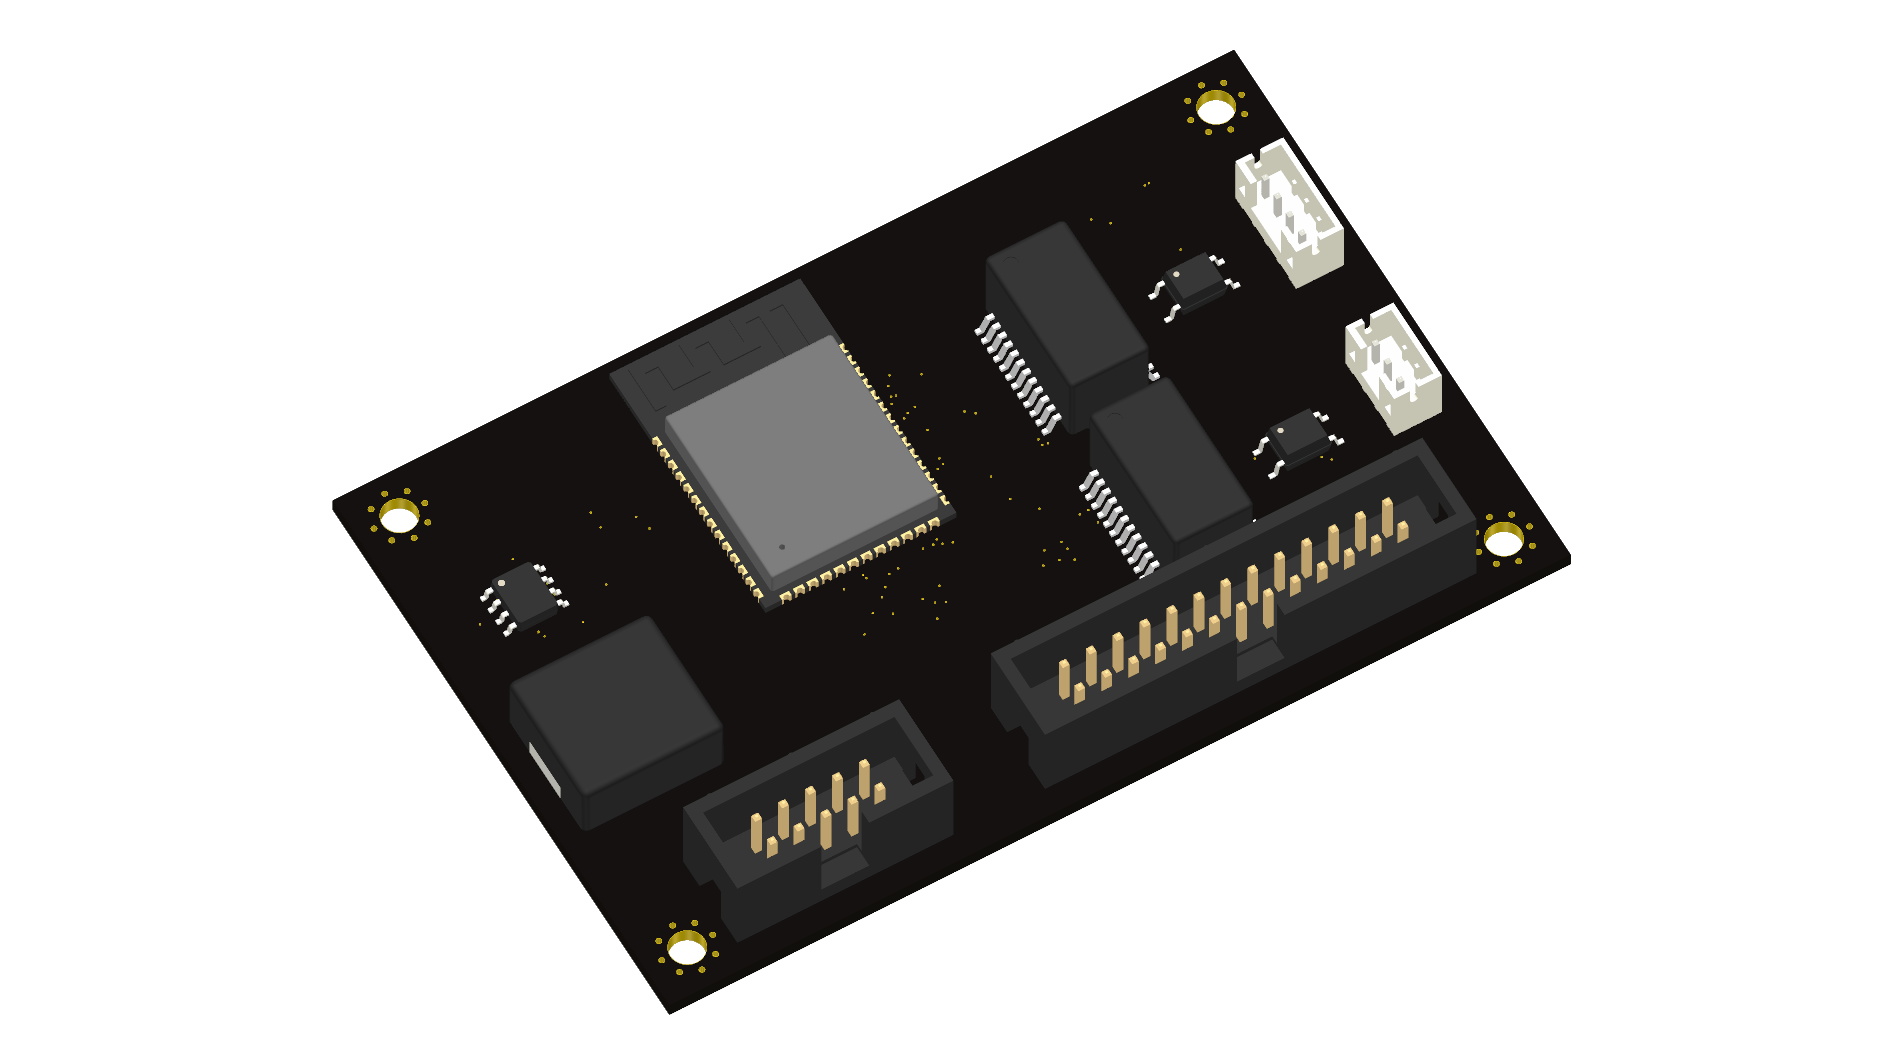
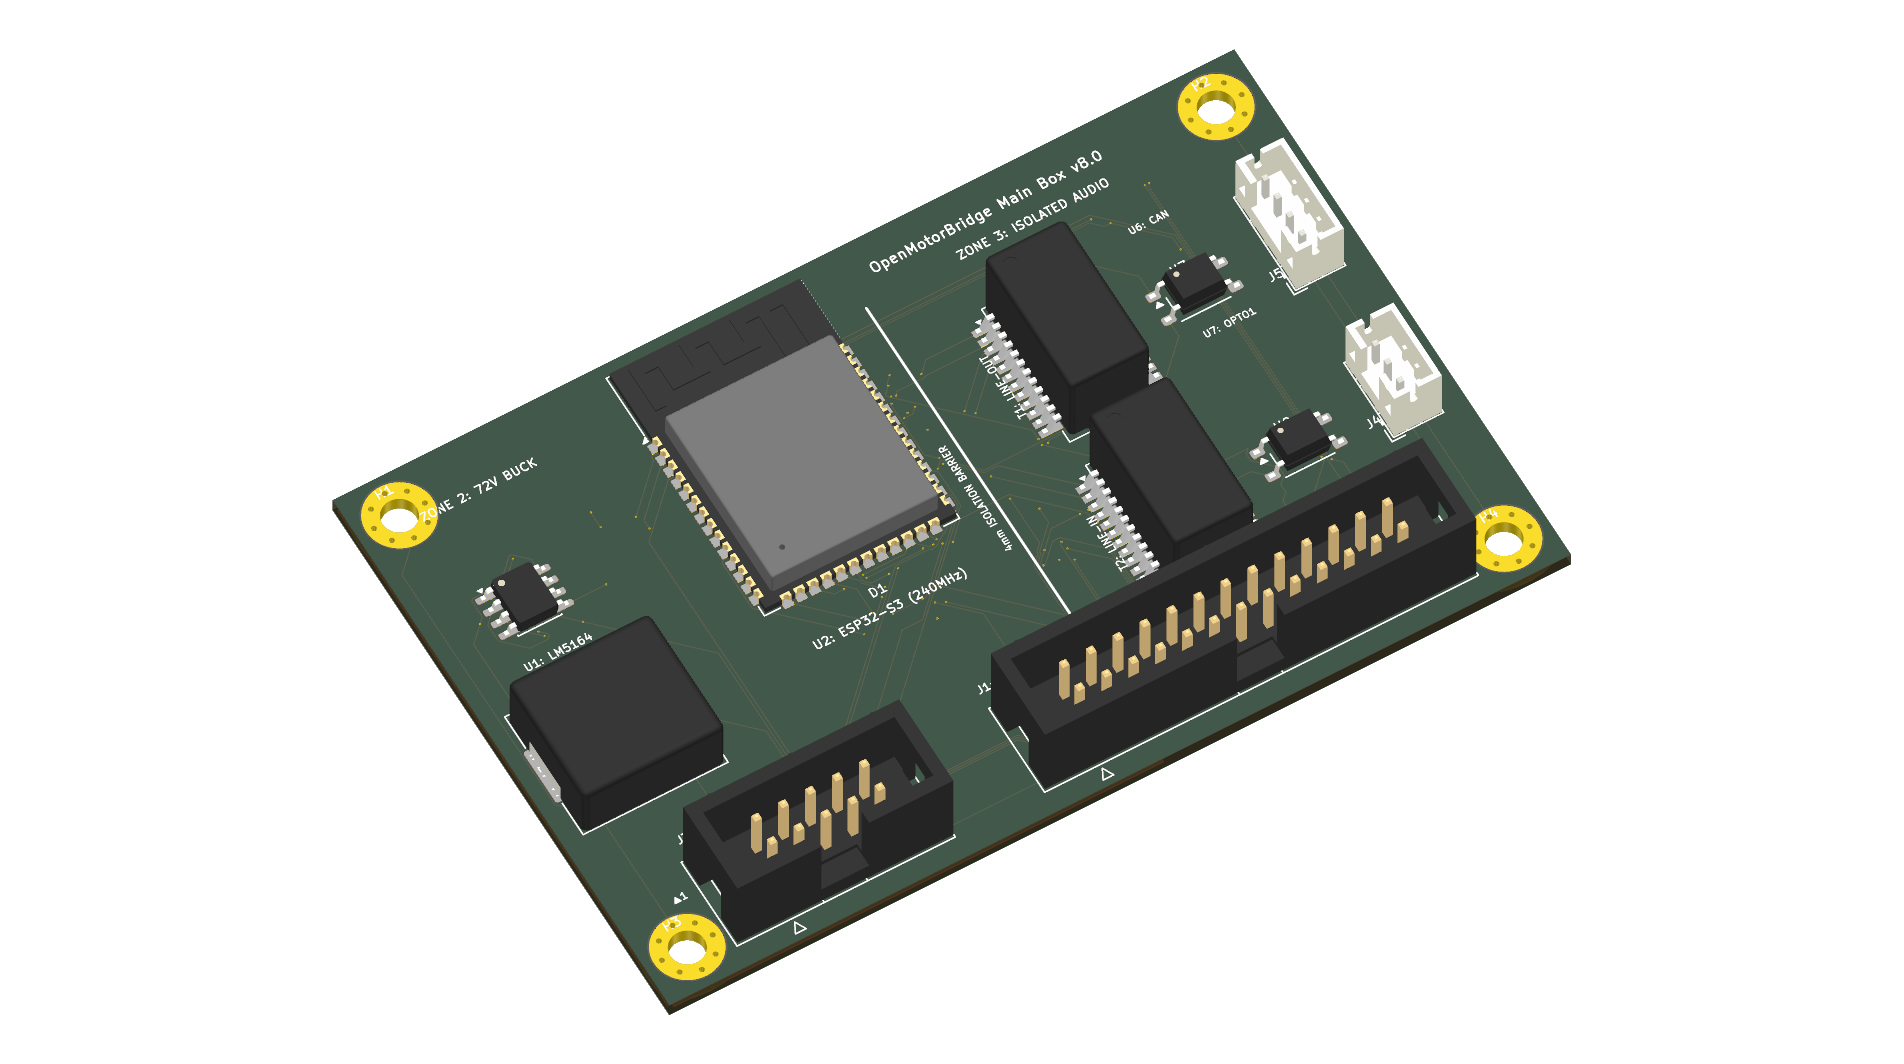
Enable high-contrast silkscreen layer and crisp white labels for 3D PCB renders

Changed region(s): [[0.1549, 0.031, 0.8367, 0.9615]]

diff --git a/hardware/scripts/optimize_silkscreen.py b/hardware/scripts/optimize_silkscreen.py
@@ -1,0 +1,89 @@
+#!/usr/bin/env python3
+"""
+Optimize Silkscreen Labels in openmotorbridge_main.kicad_pcb for 100% visibility in 3D:
+- Ensure all texts are in wide open spaces with zero shadowing
+"""
+
+import re
+
+pcb_file = 'hardware/kicad_main_box/openmotorbridge_main.kicad_pcb'
+
+with open(pcb_file, 'r') as f:
+    text = f.read()
+
+def make_gr_text(label, x, y, size=0.8, thickness=0.14, rot=0):
+    uid = f"c0000000-0000-0000-0000-{abs(hash((label, x, y, rot))) & 0xffffffffffff:012x}"
+    return f"""\t(gr_text "{label}"
+\t\t(at {x:.2f} {y:.2f} {rot})
+\t\t(layer "F.SilkS")
+\t\t(uuid "{uid}")
+\t\t(effects
+\t\t\t(font
+\t\t\t\t(size {size:.2f} {size:.2f})
+\t\t\t\t(thickness {thickness:.2f})
+\t\t\t)
+\t\t)
+\t)"""
+
+def make_gr_line(x1, y1, x2, y2, width=0.2):
+    uid = f"c1000000-0000-0000-0000-{abs(hash((x1, y1, x2, y2))) & 0xffffffffffff:012x}"
+    return f"""\t(gr_line
+\t\t(start {x1:.2f} {y1:.2f})
+\t\t(end {x2:.2f} {y2:.2f})
+\t\t(stroke
+\t\t\t(width {width:.2f})
+\t\t\t(type solid)
+\t\t)
+\t\t(layer "F.SilkS")
+\t\t(uuid "{uid}")
+\t)"""
+
+# Remove old gr_text and gr_line labels on F.SilkS if any
+text = re.sub(r'\t\(gr_text\s+.*?\n\t\)\n', '', text, flags=re.DOTALL)
+text = re.sub(r'\t\(gr_line\s+.*?\n\t\)\n', '', text, flags=re.DOTALL)
+
+silkscreen_items = [
+    # Top Right Header
+    make_gr_text("OpenMotorBridge Main Box v8.0", 175.0, 75.0, size=0.90, thickness=0.15),
+    
+    # Zone Titles
+    make_gr_text("ZONE 2: 72V BUCK", 126.0, 77.0, size=0.75, thickness=0.13),
+    make_gr_text("ZONE 3: ISOLATED AUDIO", 178.0, 77.5, size=0.75, thickness=0.13),
+    
+    # Power Zone (Left)
+    make_gr_text("U1: LM5164", 124.0, 93.5, size=0.7, thickness=0.12),
+    make_gr_text("L1: 47uH", 117.5, 103.0, size=0.68, thickness=0.12, rot=90),
+    
+    # ESP32-S3 Center
+    make_gr_text("U2: ESP32-S3 (240MHz)", 149.5, 103.5, size=0.75, thickness=0.13),
+    
+    # Galvanic Audio & Optos (Right)
+    make_gr_text("T1: LINE-OUT", 168.0, 90.0, size=0.65, thickness=0.11, rot=90),
+    make_gr_text("T2: LINE-IN", 168.0, 107.0, size=0.65, thickness=0.11, rot=90),
+    make_gr_text("U7: OPTO1", 187.0, 94.0, size=0.6, thickness=0.11),
+    make_gr_text("U8: OPTO2", 187.0, 112.0, size=0.6, thickness=0.11),
+    make_gr_text("U6: CAN", 186.0, 82.5, size=0.6, thickness=0.11),
+    
+    # Connectors
+    make_gr_text("J3: USB-C/UART", 128.0, 113.8, size=0.7, thickness=0.12),
+    make_gr_text("J1: SYSTEM IDC-26", 157.0, 113.8, size=0.7, thickness=0.12),
+    make_gr_text("J5: BATT", 195.0, 86.5, size=0.6, thickness=0.11),
+    make_gr_text("J4: RGB", 195.0, 103.5, size=0.6, thickness=0.11),
+    
+    # Pin 1 Indicators
+    make_gr_text("▲1", 121.0, 118.5, size=0.65, thickness=0.12),
+    make_gr_text("▲1", 140.5, 118.5, size=0.65, thickness=0.12),
+    
+    # Galvanic Isolation Barrier
+    make_gr_line(162.0, 78.0, 162.0, 120.0, width=0.22),
+    make_gr_text("4mm ISOLATION BARRIER", 160.8, 98.0, size=0.6, thickness=0.11, rot=90),
+]
+
+# Insert silkscreen before closing parenthesis
+closing_paren_idx = text.rfind(')')
+new_pcb = text[:closing_paren_idx] + '\n' + '\n'.join(silkscreen_items) + '\n' + text[closing_paren_idx:]
+
+with open(pcb_file, 'w') as f:
+    f.write(new_pcb)
+
+print("✓ Silkscreen layout fully perfected!")
